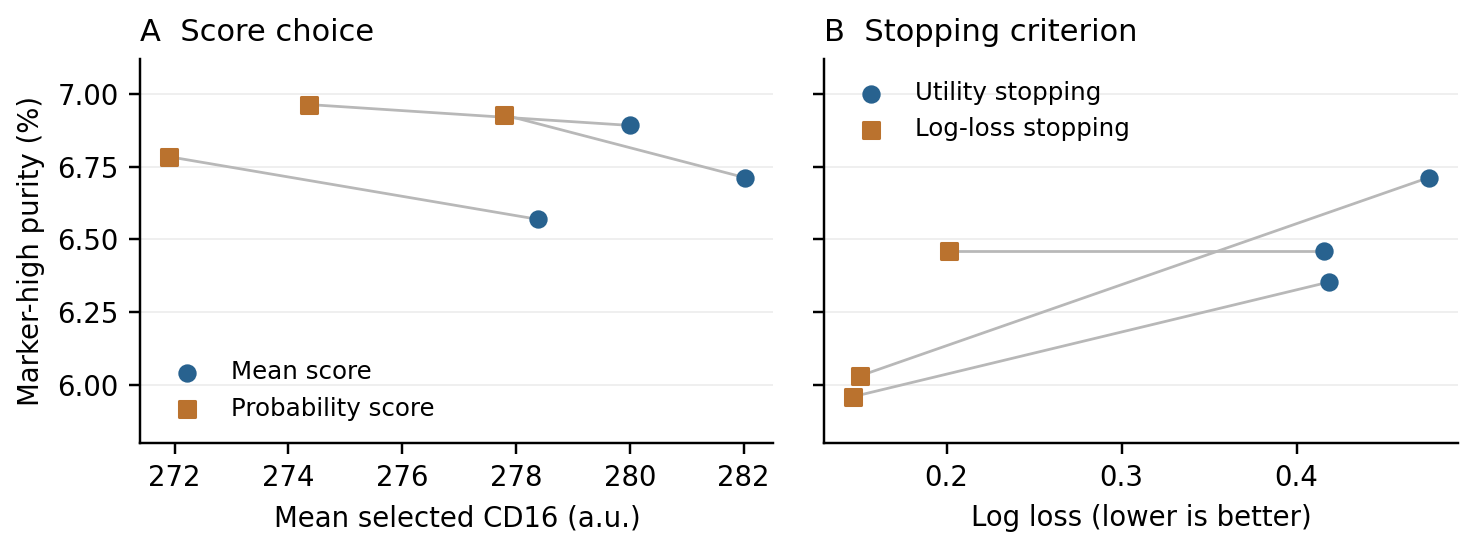
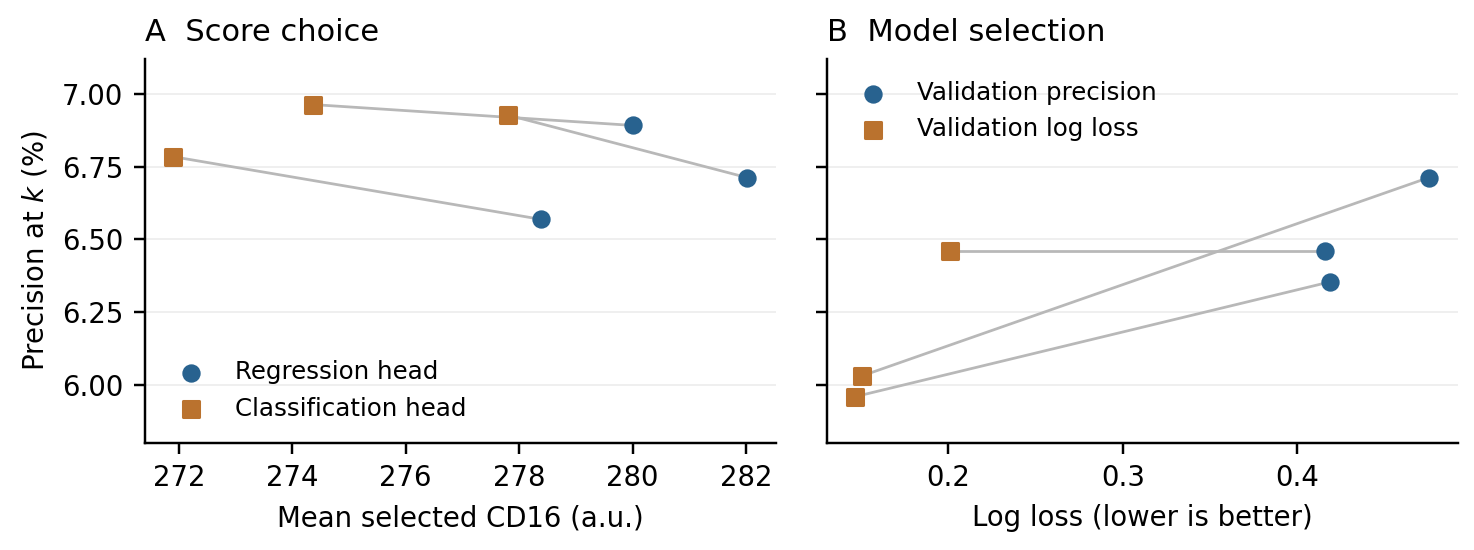
Clarify metrics

diff --git a/scripts/plot_decision_examples.py b/scripts/plot_decision_examples.py
@@ -53,8 +53,8 @@ def plot_examples(results, output):
     )
     fig, axes = plt.subplots(1, 2, figsize=(6.7, 2.5), sharey=True)
     comparisons = [
-        (mean, probability, "mean_marker", "Mean score", "Probability score"),
-        (utility_stop, loss_stop, "log_loss", "Utility stopping", "Log-loss stopping"),
+        (mean, probability, "mean_marker", "Regression head", "Classification head"),
+        (utility_stop, loss_stop, "log_loss", "Validation precision", "Validation log loss"),
     ]
     for ax, (before, after, x, first, second) in zip(axes, comparisons):
         for seed in before.index:
@@ -76,9 +76,9 @@ def plot_examples(results, output):
         ax.grid(axis="y", color="0.92", linewidth=0.5)
         ax.set_axisbelow(True)
     axes[0].set_title("A  Score choice", loc="left")
-    axes[0].set(xlabel="Mean selected CD16 (a.u.)", ylabel="Marker-high purity (%)")
+    axes[0].set(xlabel="Mean selected CD16 (a.u.)", ylabel="Precision at $k$ (%)")
     axes[0].legend(frameon=False, loc="lower left")
-    axes[1].set_title("B  Stopping criterion", loc="left")
+    axes[1].set_title("B  Model selection", loc="left")
     axes[1].set_xlabel("Log loss (lower is better)")
     axes[1].legend(frameon=False, loc="upper left")
     fig.tight_layout(pad=0.6, w_pad=1.4)

diff --git a/docs/method.md b/docs/method.md
@@ -8,7 +8,7 @@ For a pool of $N$ cells, a score selects the largest $k=\lceil qN\rceil$ values.
 
 $$U_{\mathrm{mean}}(S)=\frac{1}{k}\sum_{i\in S}y_i,\qquad U_{\mathrm{purity}}(S)=\frac{1}{k}\sum_{i\in S}\mathbf{1}\{y_i\ge\tau\}.$$
 
-The primary budget is $q=0.10$. Mean abundance values every increase in marker level; purity counts whether a cell meets the threshold. Under the usual per-cell conditional prediction model, their optimal scores are $E[Y\mid X]$ and $P(Y\ge\tau\mid X)$, respectively. These can induce different rankings. Matching the predictive target to its intended use follows the decision-theoretic treatment of [Gneiting](https://doi.org/10.1198/jasa.2011.r10138); fixed-fraction selection also connects to [accuracy at the top](https://proceedings.neurips.cc/paper/2012/hash/7fe1f8abaad094e0b5cb1b01d712f708-Abstract.html).
+The primary budget is $q=0.10$. Mean abundance values every increase in marker level. The fraction at or above the threshold is precision at $k$, stored as `purity` in the result tables. Under the usual per-cell conditional prediction model, their optimal scores are $E[Y\mid X]$ and $P(Y\ge\tau\mid X)$, respectively. These can induce different rankings. Matching the predictive target to its intended use follows the decision-theoretic treatment of [Gneiting](https://doi.org/10.1198/jasa.2011.r10138); fixed-fraction selection also connects to [accuracy at the top](https://proceedings.neurips.cc/paper/2012/hash/7fe1f8abaad094e0b5cb1b01d712f708-Abstract.html).
 
 ## Cohort and label budgets
 
